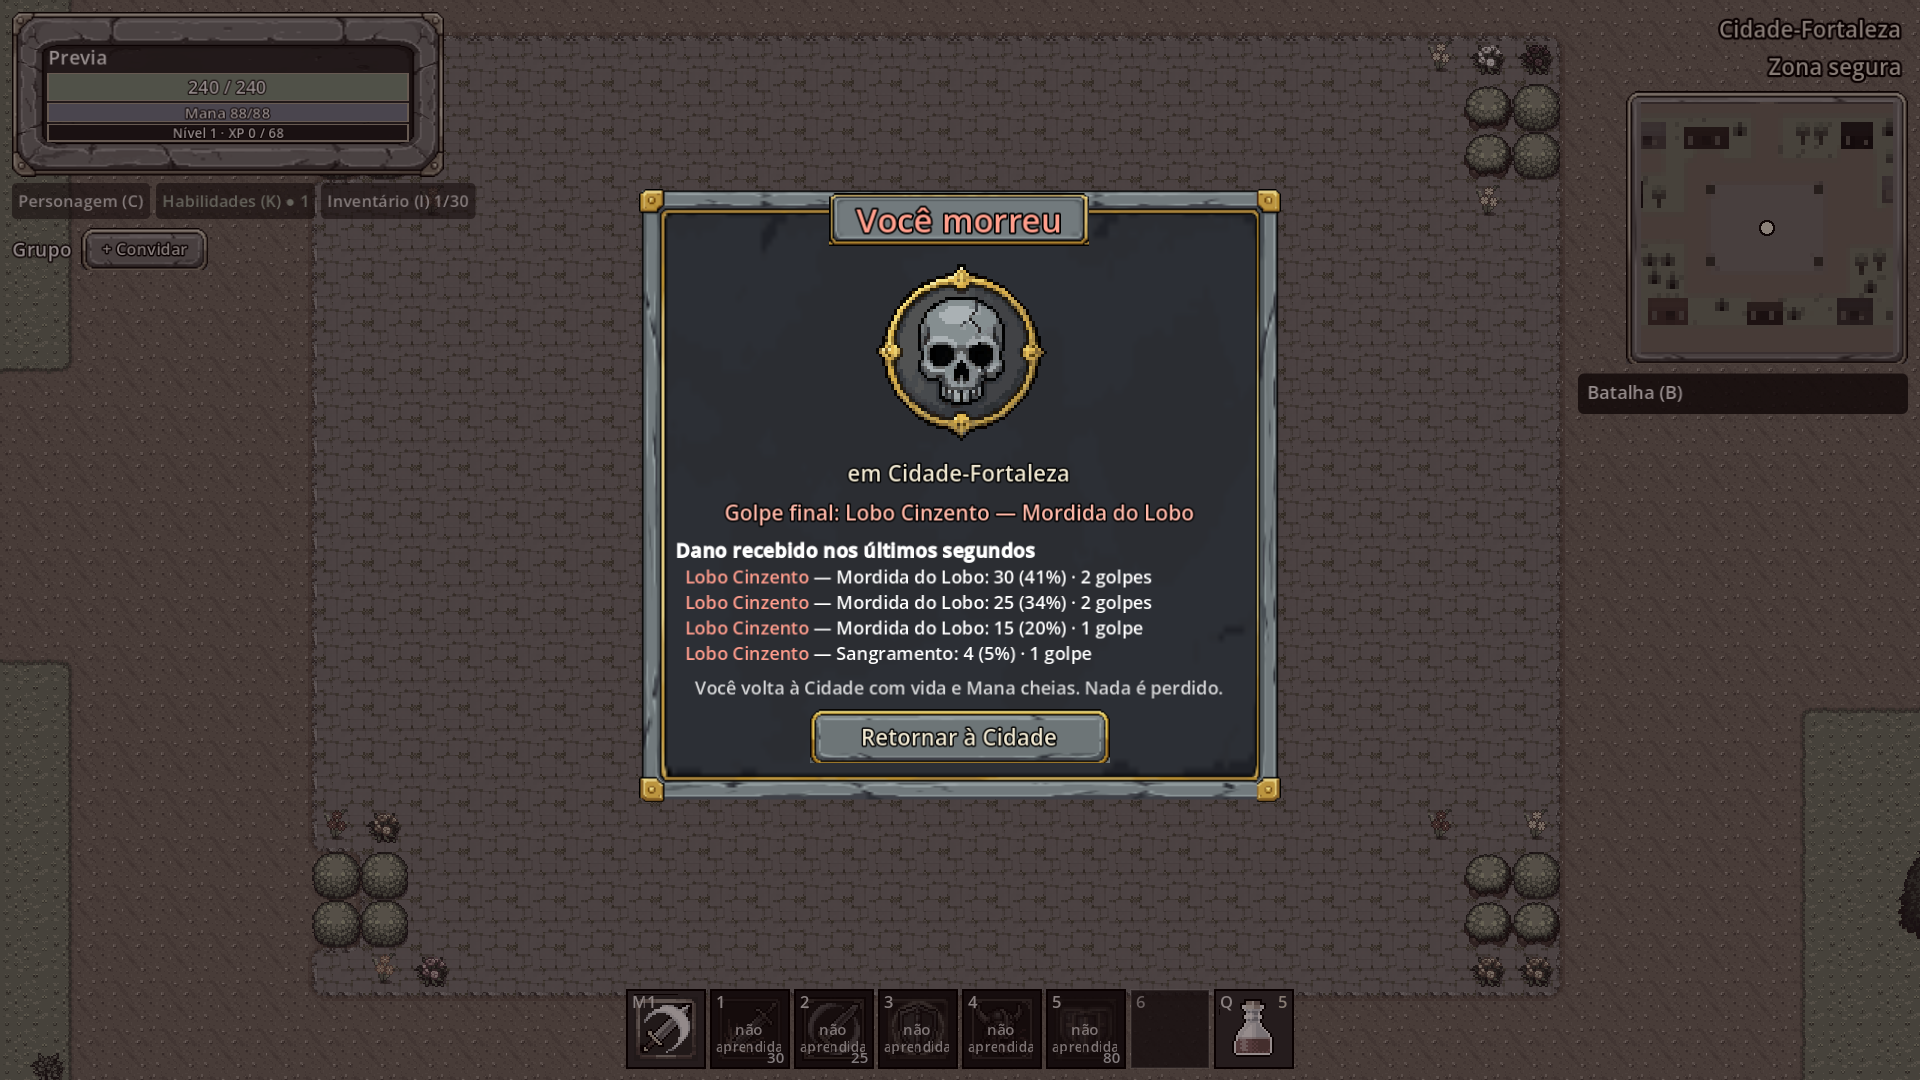
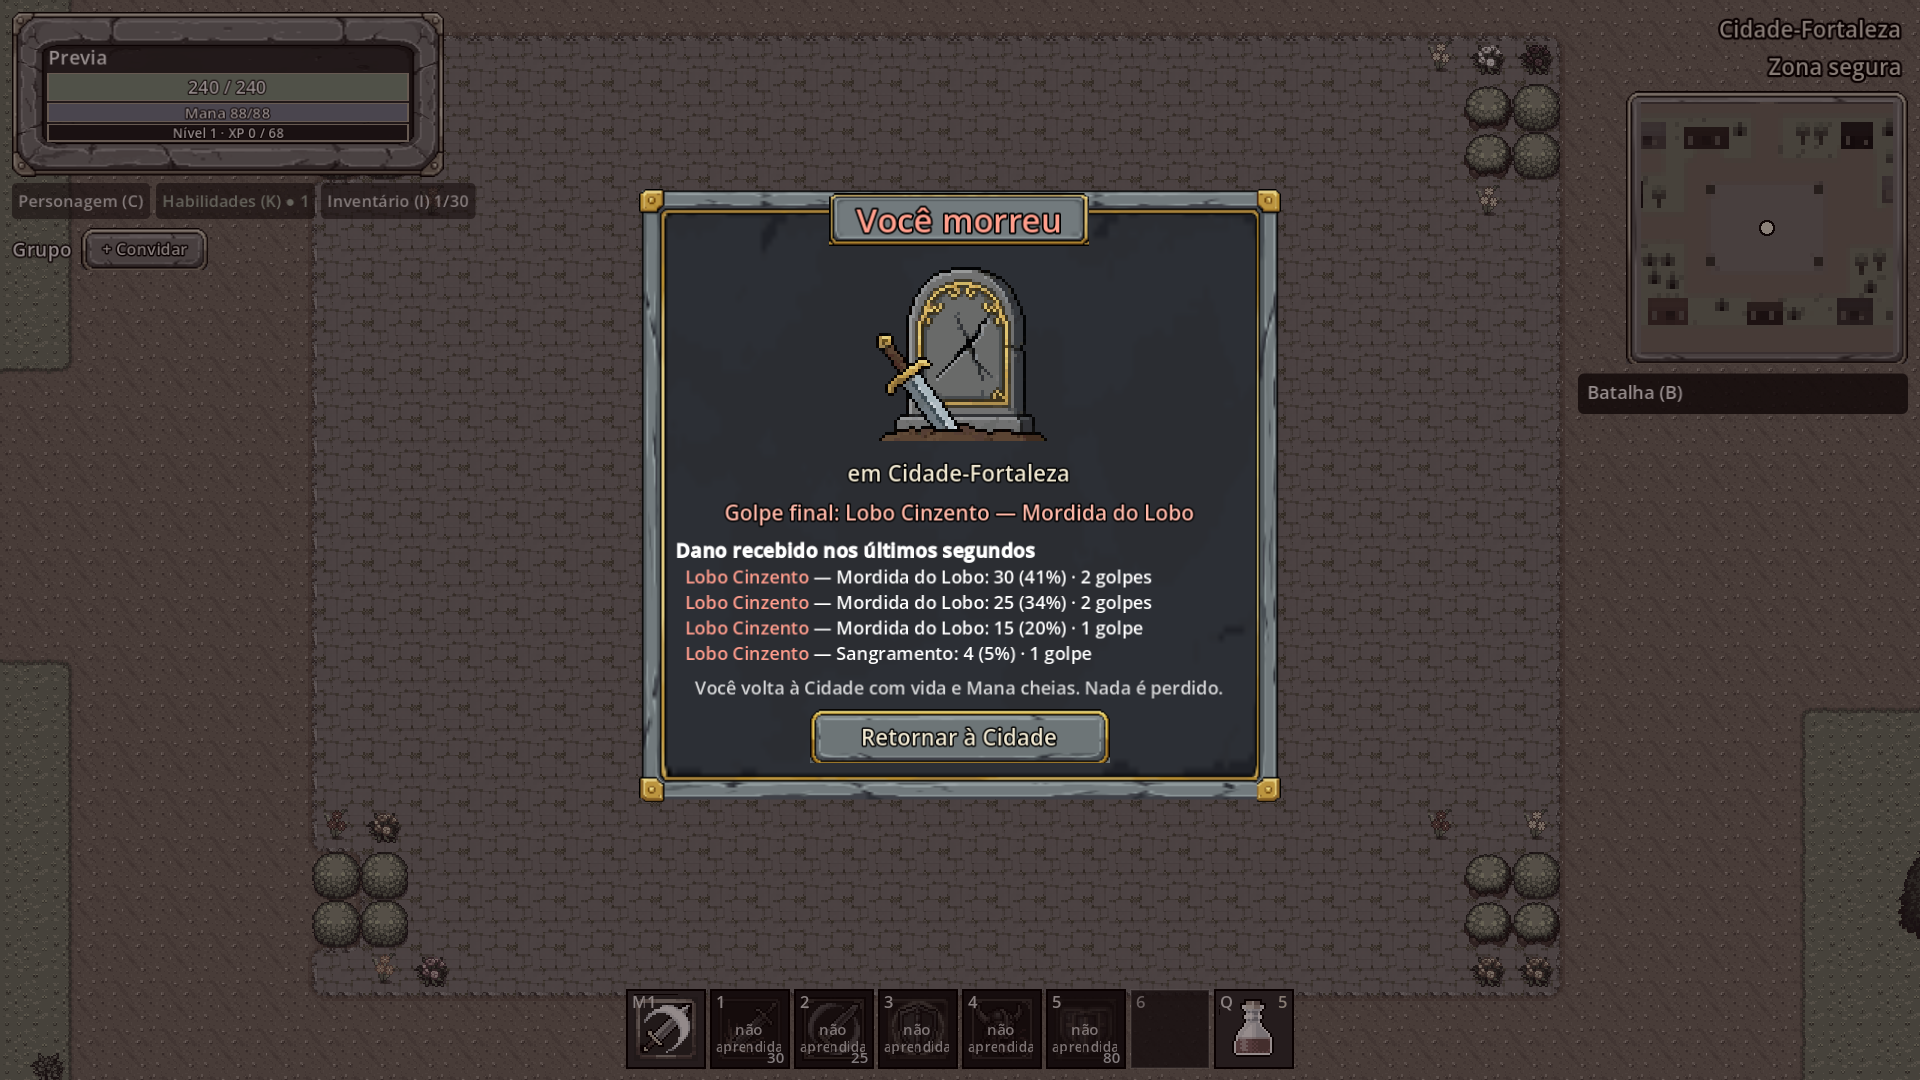
feat(client): death emblem B1 chosen by the designer

Changed region(s): [[0.4375, 0.2444, 0.5625, 0.4278]]

diff --git a/CREDITS.md b/CREDITS.md
@@ -34,6 +34,7 @@ Licenças:
 | Janela, nicho do boneco e espaço de equipamento (`window_frame`, `window_title`, `doll_niche`, `equip_slot`, T-089) | gerados no PixelLab (modelo Pro, com o painel do kit como referência de estilo) pelo designer (Nicholas Giudice) | arte própria do projeto (assinatura PixelLab) | https://www.pixellab.ai | `client/assets/art/ui/` | sim (a placa do título foi separada da moldura e a borda de cima refeita com um trecho da própria borda; recortes nas bordas transparentes; opções em `tasks/reports/interface/equip-amostra/`) |
 | Kit de interface pedra e ouro (`panel`, `frame_member`, `button_*`, `crown`) | gerado no PixelLab pelo designer (Nicholas Giudice), com recortes e variações de tom feitos à mão | arte própria do projeto (gerada com assinatura PixelLab, que dá ao assinante os direitos sobre o que gera) | https://www.pixellab.ai | `client/assets/art/ui/` | sim (aba "BUTTON" apagada, canto refeito, estados do botão por tom; escolha e prévias em `tasks/reports/interface/kit-pedra-ouro.md`) |
 | Fundo da tela de login (`login_background.png`, T-088) | gerado no PixelLab (modelo Pro) pelo designer (Nicholas Giudice) | arte própria do projeto (assinatura PixelLab) | https://www.pixellab.ai | `client/assets/art/ui/login_background.png` | não (opção 8 de 9; as outras em `tasks/reports/interface/login-amostra/`) |
+| Emblema da tela de morte (`death_emblem.png`, T-397): lápide com espada | gerado no PixelLab (modelo Pro, com o ícone do jogo como referência de estilo) pelo designer (Nicholas Giudice) | arte própria do projeto (assinatura PixelLab) | https://www.pixellab.ai | `client/assets/art/ui/death_emblem.png` | não (opção B1 de 32; as outras em `tasks/reports/interface/emblema-morte/`) |
 | Logo do jogo (`logo.png`, T-073) | gerado no PixelLab (modelo Pro, com o painel do kit como referência de estilo) pelo designer (Nicholas Giudice) | arte própria do projeto (assinatura PixelLab) | https://www.pixellab.ai | `client/assets/art/ui/logo.png` (também no site) | sim (só recortado nas bordas transparentes; opção 2 de 8, todas em `tasks/reports/interface/logo-amostra/`) |
 | Ícone do jogo (`icon.png`, `icon.ico`, T-074) | gerado no PixelLab (modelo Pro, com o logo como referência de estilo) pelo designer (Nicholas Giudice) | arte própria do projeto (assinatura PixelLab) | https://www.pixellab.ai | `client/assets/art/ui/icon.png`, `client/assets/art/ui/icon.ico` | sim (só ampliado e reduzido para os tamanhos do `.ico`; opção B3 de 32, todas em `tasks/reports/interface/icone-amostra/`) |
 | Terreno das Ruínas da Estrada Antiga (`pixellab_ruins_*.png`): piso de lajes, entulho, grama, mata fechada e muralha com face, em tilesets Wang de 32 px | gerados no PixelLab (tilesets Pro, visão *low top-down*) a pedido do designer (Nicholas Giudice); mapa montado no Map Workshop ("Valdran - Ruínas da Estrada Antiga") | arte própria do projeto (assinatura PixelLab) | https://www.pixellab.ai | `client/assets/art/tiles/pixellab_ruins_*.png` (`.tsx` em `data/maps/tilesets/`) | não (folhas como exportadas pelo Map Workshop para Godot; `pixellab_ruins_7` é a folha de emendas retas do próprio export) |

diff --git a/tasks/fase-3/T-397-tela-de-morte.md b/tasks/fase-3/T-397-tela-de-morte.md
@@ -35,4 +35,31 @@ Pedido do designer em 2026-11-19. No mundo aberto, a morte mostra hoje uma faixa
 
 ## Resultado
 
-_(preencher ao concluir)_
+**Feito** (Windows, 2026-11-19) na branch `task/T-397-tela-de-morte`. O designer escolheu o emblema **B1**, a lápide com a espada.
+
+**Tela de morte** (`client/scripts/Match/DeathScreen.cs`, nova; `ZoneScreen` hospeda a tela no lugar da faixa vermelha antiga):
+- Em cerca de 1 s, a tela perde a cor (shader com a textura da tela, 85%) e escurece (vermelho bem escuro, 45%). A janela aparece em seguida.
+- A janela usa o kit pedra e ouro (`WindowFrame`, `WindowTitlePlate`) e mostra:
+  - "Você morreu" e o emblema em 2×;
+  - a zona e "Golpe final: <monstro> — <habilidade>", tirado do `DamageDealt` com `Killed` do resumo;
+  - o dano por fonte, até 4 fontes, depois "e mais N";
+  - a frase de que nada é perdido e o botão **Retornar à Cidade** (`StoneButton`), que manda o `RespawnRequest` de sempre.
+- O resumo vem do log de combate pelo `Hud.DeathSummaryHandler`. No mundo aberto, ele vai para a tela de morte. Na sala de encontro, continua no `DeathSummaryPanel`, como antes.
+- Esc não fecha a tela. O `--auto-respawn` continua funcionando, agora com o texto "Retornar à Cidade".
+- Prévia: `--death-sample` mostra a tela ao entrar na zona, com um resumo de exemplo de três lobos (`DeathSample`). O botão só fecha a tela.
+
+**Arte:**
+- Duas chamadas `create_image_pro` em 64×64, com 16 candidatas cada e o ícone do jogo (escudo B3 da T-074) como referência de estilo. A: caveira num medalhão. B: lápide com espada quebrada ou escudo rachado.
+- As pranchas `tasks/reports/interface/emblema-morte/prancha-a.png` e `prancha-b.png` mostram cada candidata em 3×, 64 px e 32 px. As candidatas brutas estão em `a/` e `b/`, numeradas a partir de 0, então a B1 é o arquivo `b/0.png`.
+- Arquivo: `client/assets/art/ui/death_emblem.png`, sem retoque. Crédito no `CREDITS.md`.
+- Custo: 20 gerações da assinatura (2 chamadas Pro de 10).
+
+**Conferido no jogo:** `tasks/reports/interface/t397-morte-1.png`, com um servidor local `--world --dev-login` e `--death-sample`. Na captura, a zona aparece como "Cidade-Fortaleza" porque a prévia nasce na Cidade.
+
+**Correção no caminho:** a `ZoneScreen` fica numa `CanvasLayer` e não tem tamanho. A tela de morte cobre a janela por conta própria, com `Size` igual ao do viewport a cada quadro.
+
+**Fora das áreas listadas:** `client/scripts/Match/DeathSample.cs` (a prévia).
+
+**Pendências:**
+- Ainda não foi vista numa morte de verdade, só com a prévia. O caminho do resumo é o mesmo do painel antigo.
+- Integração: a T-396 também mexe em `Main.cs` e em `client/scripts/Match/`, então integre uma de cada vez. Não mexe em servidor nem protocolo.
